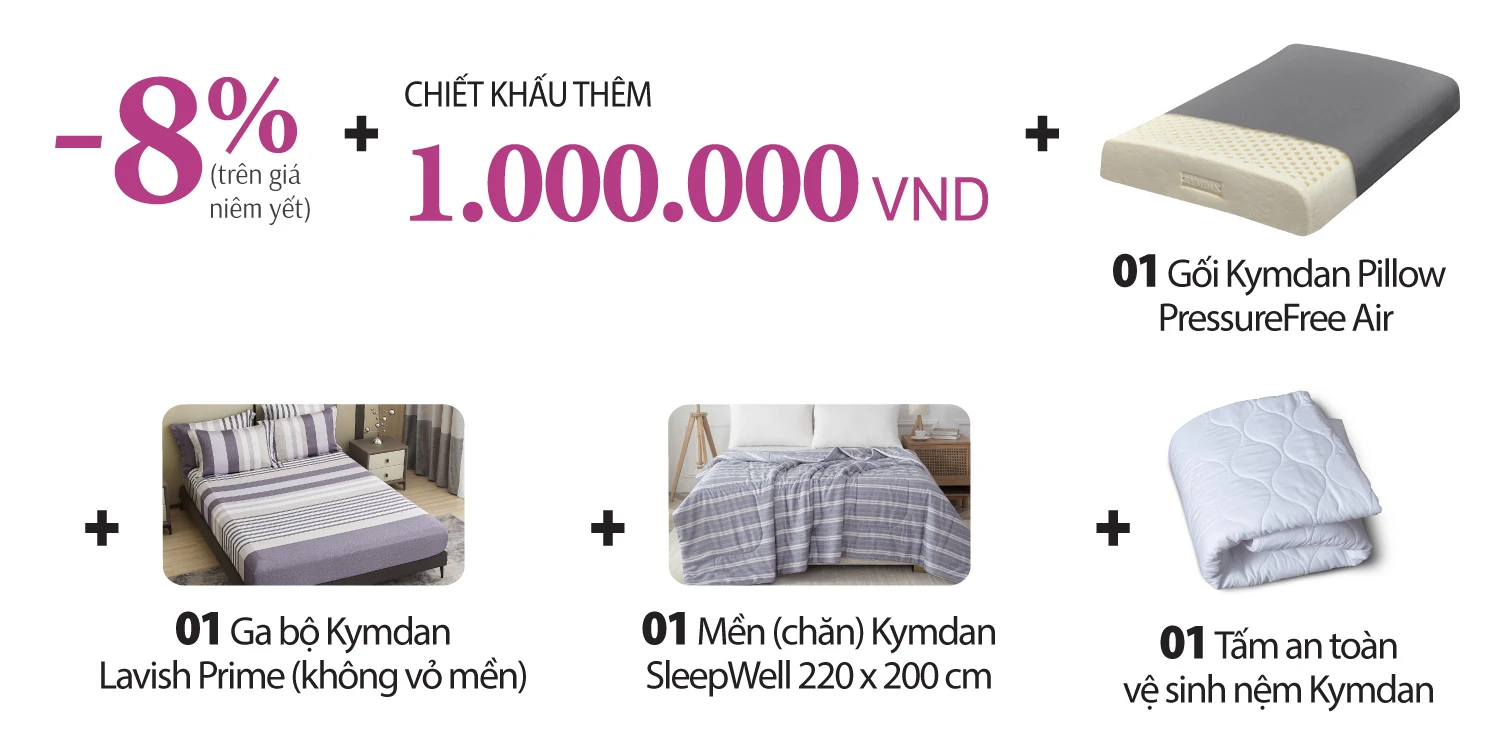
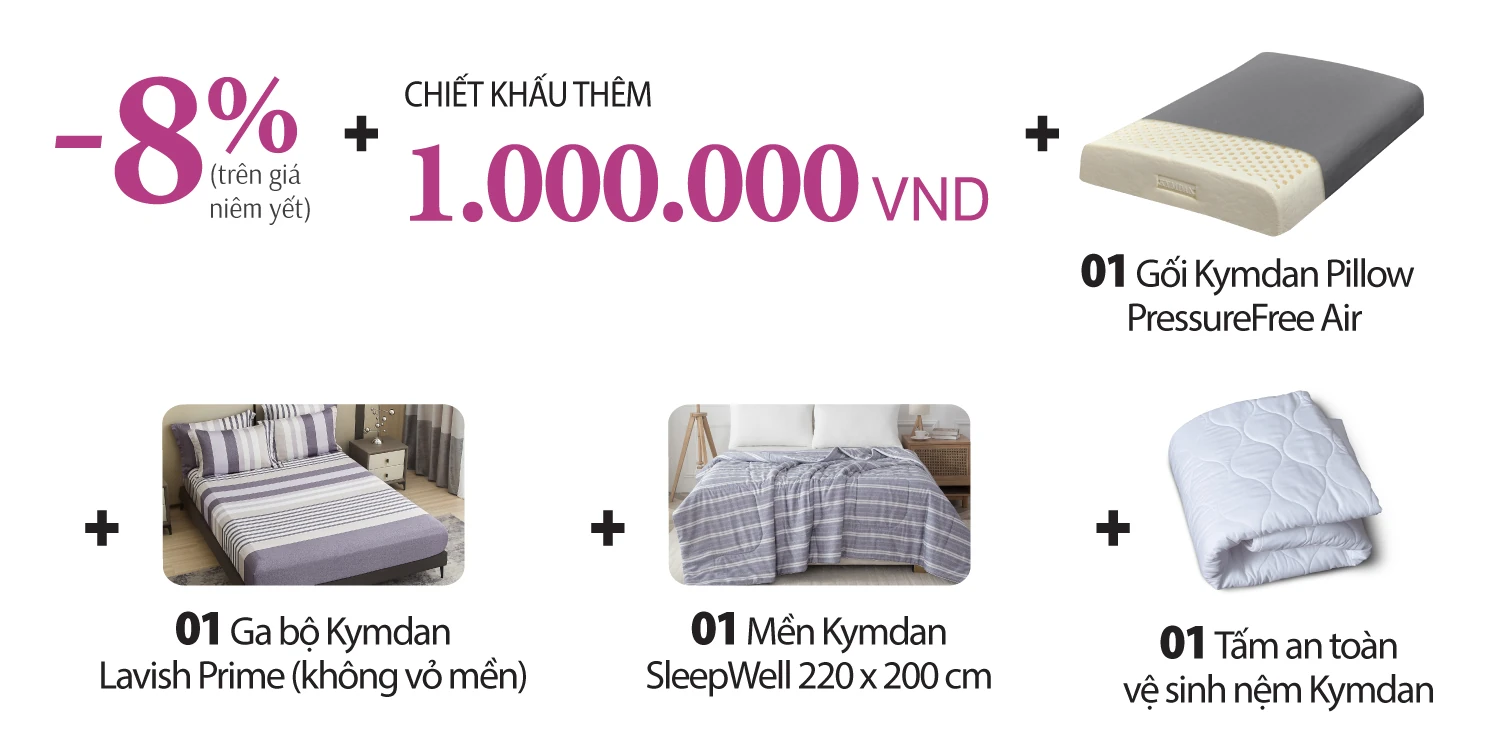
Sửa 3 ảnh ưu đãi Ngày Hội Trải Nghiệm theo bản khách gửi lại
- tier-badge-goi-pc: "MUA 01 GỐI" -> "MUA 1 GỐI", khớp cách viết của
  bản mobile vốn đã là "MUA 1 GỐI".
- tier-35-chuan-pc / -mb: bỏ chữ "(chăn)" ở dòng Mền SleepWell, đổi
  ảnh sản phẩm. Nội dung ưu đãi giữ nguyên.

Ba file 1500x752 và 899x1277 trùng kích thước với bậc 50 triệu nên
không ghép theo kích thước được — phải đọc nội dung: 1.000.000 VND +
Lavish Prime + SleepWell là bậc 35, không phải bậc 50.

Changed region(s): [[0.7053, 0.0612, 0.9813, 0.4588], [0.4293, 0.7952, 0.6747, 0.8564], [0.7973, 0.0918, 0.828, 0.1223]]

diff --git a/ngay-hoi-trai-nghiem/manifest.md b/ngay-hoi-trai-nghiem/manifest.md
@@ -2,27 +2,27 @@
 
 Tải từ Cloudinary **2026-09-10**. Nguồn markup: `index.html`
 
-31 file · 32 ô ảnh · **4 ảnh do Cloudinary dựng ra (không có file gốc ở đâu khác)**
+Cột cuối giữ **URL Cloudinary cũ** để tra ngược khi cần đối chiếu bài đang chạy.
 
 | Vai trò ô | File | Thông tin | URL Cloudinary cũ |
 |---|---|---|---|
 | banner-pc | `banner-pc.webp` | 1979×1100 · 52 KB | `https://res.cloudinary.com/dxhsejldo/image/upload/c_crop,x_0,y_0,w_709,h_519/c_scale,h_730/c_lpad,w_1979,h_1100,g_east,y_21,b_gen_fill:prompt_flat%20cream%20wall%20parallel%20to%20camera%20no%20alcove%20no%20recess%20no%20niche%20no%20corner%20no%20panels%20no%20vertical%20lines%20smooth%20pale%20grey%20floor/f_auto,q_auto/v1788763769/anhnem2_o59ebb.png` |
-| banner-pc-cut | `banner-pc-cut.webp` | 1979×1100 · 51 KB · **alpha** | `https://res.cloudinary.com/dxhsejldo/image/upload/c_crop,x_0,y_0,w_709,h_519/c_scale,h_730/c_lpad,w_1979,h_1100,g_east,y_21,b_gen_fill:prompt_flat%20cream%20wall%20parallel%20to%20camera%20no%20alcove%20no%20recess%20no%20niche%20no%20corner%20no%20panels%20no%20vertical%20lines%20smooth%20pale%20grey%20floor/e_background_removal/f_auto,q_auto/v1788763769/anhnem2_o59ebb.png` |
+| banner-pc-cut | `banner-pc-cut.webp` | 1979×1100 · 51 KB | `https://res.cloudinary.com/dxhsejldo/image/upload/c_crop,x_0,y_0,w_709,h_519/c_scale,h_730/c_lpad,w_1979,h_1100,g_east,y_21,b_gen_fill:prompt_flat%20cream%20wall%20parallel%20to%20camera%20no%20alcove%20no%20recess%20no%20niche%20no%20corner%20no%20panels%20no%20vertical%20lines%20smooth%20pale%20grey%20floor/e_background_removal/f_auto,q_auto/v1788763769/anhnem2_o59ebb.png` |
 | banner-tablet | `banner-tablet.webp` | 1738×1450 · 62 KB | `https://res.cloudinary.com/dxhsejldo/image/upload/c_crop,x_0,y_0,w_618,h_519/c_scale,h_730/c_lpad,w_1738,h_1450,g_east,b_gen_fill:prompt_flat%20cream%20wall%20parallel%20to%20camera%20no%20alcove%20no%20recess%20no%20niche%20no%20corner%20no%20panels%20no%20vertical%20lines%20smooth%20pale%20grey%20floor/f_auto,q_auto/v1788763769/anhnem2_o59ebb.png` |
 | banner-mobile | `banner-mobile.webp` | 824×1483 · 32 KB | `https://res.cloudinary.com/dxhsejldo/image/upload/c_crop,x_0,y_0,w_618,h_519/c_scale,w_824/c_pad,ar_5:9,g_south,b_auto/l_anhnem2_o59ebb/c_crop,x_0,y_0,w_618,h_519/c_scale,w_824/c_crop,g_north,w_824,h_3/c_scale,w_824,h_791/fl_layer_apply,g_north/f_auto,q_auto/v1788763769/anhnem2_o59ebb.png` |
-| nem-demo | `nem-demo.webp` | 900×445 · 29 KB · **alpha** | `https://res.cloudinary.com/dxhsejldo/image/upload/c_scale,w_900/f_auto,q_auto/v1788921083/nemdeluxe2_q0q7m0.png` |
-| qua-ga-bo-kymdan-seren | `qua-ga-bo-kymdan-seren.webp` | 312×312 · 15 KB · thu nhỏ 2026-09-10, bản gốc giữ ở `qua-ga-bo-kymdan-seren-full.jpg` (2000×2000 · 510 KB) | `https://res.cloudinary.com/dxhsejldo/image/upload/f_auto,q_auto/v1788764771/Untitled-1_uzapih.jpg` |
-| qua-men-chan-kymdan-sl | `qua-men-chan-kymdan-sl.webp` | 312×312 · 8 KB · thu nhỏ 2026-09-10, bản gốc giữ ở `qua-men-chan-kymdan-sl-full.jpg` (2000×2000 · 229 KB) | `https://res.cloudinary.com/dxhsejldo/image/upload/f_auto,q_auto/v1788764770/Untitled-2_youizt.jpg` |
-| tier-50-chuan-pc | `tier-50-chuan-pc.webp` | 1500×752 · 71 KB | **ảnh mới khách gửi 2026-09-10** — `Icon SK Hue_icon sk pc-23.jpg` |
-| tier-50-chuan-mb | `tier-50-chuan-mb.webp` | 899×1277 · 76 KB | **ảnh mới khách gửi 2026-09-10** — `Icon SK Hue_icon sk mobile-20.jpg` |
+| nem-demo | `nem-demo.webp` | 900×445 · 29 KB | `https://res.cloudinary.com/dxhsejldo/image/upload/c_scale,w_900/f_auto,q_auto/v1788921083/nemdeluxe2_q0q7m0.png` |
+| qua-ga-bo-kymdan-seren | `qua-ga-bo-kymdan-seren.webp` | 312×312 · 15 KB · thu nhỏ 2026-09-10 từ 2000×2000 · bản gốc ở `qua-ga-bo-kymdan-seren-full.jpg` | `https://res.cloudinary.com/dxhsejldo/image/upload/f_auto,q_auto/v1788764771/Untitled-1_uzapih.jpg` |
+| qua-men-chan-kymdan-sl | `qua-men-chan-kymdan-sl.webp` | 312×312 · 8 KB · thu nhỏ 2026-09-10 từ 2000×2000 · bản gốc ở `qua-men-chan-kymdan-sl-full.jpg` | `https://res.cloudinary.com/dxhsejldo/image/upload/f_auto,q_auto/v1788764770/Untitled-2_youizt.jpg` |
+| tier-50-chuan-pc | `tier-50-chuan-pc.webp` | 1500×752 · 71 KB · **ảnh mới khách gửi 2026-09-10** (`Icon SK Hue_icon sk pc-23.jpg`) | `https://res.cloudinary.com/dxhsejldo/image/upload/f_auto,q_auto/v1788762084/Icon_SK_Hue_icon_sk-23_eqqur6.jpg` |
+| tier-50-chuan-mb | `tier-50-chuan-mb.webp` | 899×1277 · 76 KB · **ảnh mới khách gửi 2026-09-10** (`Icon SK Hue_icon sk mobile-20.jpg`) | `https://res.cloudinary.com/dxhsejldo/image/upload/f_auto,q_auto/v1788752472/Icon_SK_Hue_icon_sk-20_w7sdbx.jpg` |
 | tier-50-yeucau-pc | `tier-50-yeucau-pc.webp` | 1500×579 · 45 KB | `https://res.cloudinary.com/dxhsejldo/image/upload/f_auto,q_auto/v1788762085/Icon_SK_Hue_icon_sk-09_unqvtx.jpg` |
 | tier-50-yeucau-mb | `tier-50-yeucau-mb.webp` | 899×790 · 44 KB | `https://res.cloudinary.com/dxhsejldo/image/upload/f_auto,q_auto/v1788752471/Icon_SK_Hue_icon_sk-12_jegphq.jpg` |
-| tier-35-chuan-pc | `tier-35-chuan-pc.webp` | 1500×752 · 90 KB | `https://res.cloudinary.com/dxhsejldo/image/upload/f_auto,q_auto/v1788762084/Icon_SK_Hue_icon_sk-01_grx2nf.jpg` |
-| tier-35-chuan-mb | `tier-35-chuan-mb.webp` | 899×1277 · 95 KB | `https://res.cloudinary.com/dxhsejldo/image/upload/f_auto,q_auto/v1788752470/Icon_SK_Hue_icon_sk-10_rvpf7f.jpg` |
+| tier-35-chuan-pc | `tier-35-chuan-pc.webp` | 1500×752 · 84 KB · **ảnh mới khách gửi 2026-09-11** (`Icon SK Hue_icon sk pc-01.jpg`) | `https://res.cloudinary.com/dxhsejldo/image/upload/f_auto,q_auto/v1788762084/Icon_SK_Hue_icon_sk-01_grx2nf.jpg` |
+| tier-35-chuan-mb | `tier-35-chuan-mb.webp` | 899×1277 · 89 KB · **ảnh mới khách gửi 2026-09-11** (`Icon SK Hue_icon sk mobile-10.jpg`) | `https://res.cloudinary.com/dxhsejldo/image/upload/f_auto,q_auto/v1788752470/Icon_SK_Hue_icon_sk-10_rvpf7f.jpg` |
 | tier-35-yeucau-pc | `tier-35-yeucau-pc.webp` | 1500×579 · 46 KB | `https://res.cloudinary.com/dxhsejldo/image/upload/f_auto,q_auto/v1788762085/Icon_SK_Hue_icon_sk-08_fpfwkg.jpg` |
 | tier-35-yeucau-mb | `tier-35-yeucau-mb.webp` | 899×790 · 41 KB | `https://res.cloudinary.com/dxhsejldo/image/upload/f_auto,q_auto/v1788752471/Icon_SK_Hue_icon_sk-11_zdsjlg.jpg` |
-| tier-25-chuan-pc | `tier-25-chuan-pc.webp` | 1500×579 · 54 KB | **ảnh mới khách gửi 2026-09-10** — `Icon SK Hue_icon sk pc-22.jpg` |
-| tier-25-chuan-mb | `tier-25-chuan-mb.webp` | 899×870 · 57 KB | **ảnh mới khách gửi 2026-09-10** — `Icon SK Hue_icon sk mobile-19.jpg` |
+| tier-25-chuan-pc | `tier-25-chuan-pc.webp` | 1500×579 · 54 KB · **ảnh mới khách gửi 2026-09-10** (`Icon SK Hue_icon sk pc-22.jpg`) | `https://res.cloudinary.com/dxhsejldo/image/upload/f_auto,q_auto/v1788762084/Icon_SK_Hue_icon_sk-22_zxnllh.jpg` |
+| tier-25-chuan-mb | `tier-25-chuan-mb.webp` | 899×870 · 57 KB · **ảnh mới khách gửi 2026-09-10** (`Icon SK Hue_icon sk mobile-19.jpg`) | `https://res.cloudinary.com/dxhsejldo/image/upload/f_auto,q_auto/v1788752473/Icon_SK_Hue_icon_sk-19_udctrp.jpg` |
 | tier-25-yeucau-pc | `tier-25-yeucau-pc.webp` | 1500×579 · 41 KB | `https://res.cloudinary.com/dxhsejldo/image/upload/f_auto,q_auto/v1788762085/Icon_SK_Hue_icon_sk-07_ejclqp.jpg` |
 | tier-25-yeucau-mb | `tier-25-yeucau-mb.webp` | 899×790 · 41 KB | `https://res.cloudinary.com/dxhsejldo/image/upload/f_auto,q_auto/v1788752472/Icon_SK_Hue_icon_sk-26_qclnzy.jpg` |
 | tier-15-chuan-pc | `tier-15-chuan-pc.webp` | 1500×579 · 40 KB | `https://res.cloudinary.com/dxhsejldo/image/upload/f_auto,q_auto/v1788762084/Icon_SK_Hue_icon_sk-21_qdssgu.jpg` |
@@ -31,10 +31,10 @@ Tải từ Cloudinary **2026-09-10**. Nguồn markup: `index.html`
 | tier-duoi15-chuan-mb | `tier-duoi15-chuan-mb.webp` | 899×199 · 5 KB | `https://res.cloudinary.com/dxhsejldo/image/upload/f_auto,q_auto/v1788752472/Icon_SK_Hue_icon_sk-16_seecle.jpg` |
 | tier-them15-chuan-pc | `tier-them15-chuan-pc.webp` | 1500×319 · 47 KB | `https://res.cloudinary.com/dxhsejldo/image/upload/f_auto,q_auto/v1788762084/Icon_SK_Hue_icon_sk-29_cov7f5.jpg` |
 | tier-them15-chuan-mb | `tier-them15-chuan-mb.webp` | 899×508 · 40 KB | `https://res.cloudinary.com/dxhsejldo/image/upload/f_auto,q_auto/v1788752473/Icon_SK_Hue_icon_sk-28_nvnokb.jpg` |
-| tier-badge-goi-pc | `tier-badge-goi-pc.webp` | 1500×220 · 15 KB | **ảnh mới khách gửi 2026-09-10** — `Icon SK Hue_icon sk pc-04.jpg` |
-| tier-badge-goi-mb | `tier-badge-goi-mb.webp` | 899×199 · 12 KB | **ảnh mới khách gửi 2026-09-10** — `Icon SK Hue_icon sk mobile-14.jpg` |
-| tier-badge-ga-pc | `tier-badge-ga-pc.webp` | 1500×150 · 7 KB | **ảnh mới khách gửi 2026-09-10** — `Icon SK Hue_icon sk pc-06.jpg` |
-| tier-badge-ga-mb | `tier-badge-ga-mb.webp` | 899×98 · 5 KB | **ảnh mới khách gửi 2026-09-10** — `Icon SK Hue_icon sk mobile-13.jpg` |
-| tier-badge-men-pc | `tier-badge-ga-pc.webp` | dùng lại file trên | **ảnh mới khách gửi 2026-09-10** — `Icon SK Hue_icon sk pc-06.jpg` |
-| tier-badge-men-mb | `tier-badge-men-mb.webp` | 899×98 · 5 KB | **ảnh mới khách gửi 2026-09-10** — `Icon SK Hue_icon sk mobile-13.jpg` |
+| tier-badge-goi-pc | `tier-badge-goi-pc.webp` | 1500×220 · 15 KB · **ảnh mới khách gửi 2026-09-11** (`Icon SK Hue.jpg`) | `https://res.cloudinary.com/dxhsejldo/image/upload/f_auto,q_auto/v1788762084/Icon_SK_Hue_icon_sk-04_o9i5jo.jpg` |
+| tier-badge-goi-mb | `tier-badge-goi-mb.webp` | 899×199 · 12 KB · **ảnh mới khách gửi 2026-09-10** (`Icon SK Hue_icon sk mobile-14.jpg`) | `https://res.cloudinary.com/dxhsejldo/image/upload/f_auto,q_auto/v1788752472/Icon_SK_Hue_icon_sk-14_rym8o3.jpg` |
+| tier-badge-ga-pc | `tier-badge-ga-pc.webp` | 1500×150 · 7 KB · **ảnh mới khách gửi 2026-09-10** (`Icon SK Hue_icon sk pc-06.jpg`) | `https://res.cloudinary.com/dxhsejldo/image/upload/f_auto,q_auto/v1788762085/Icon_SK_Hue_icon_sk-06_w0rdq4.jpg` |
+| tier-badge-ga-mb | `tier-badge-ga-mb.webp` | 899×98 · 5 KB · **ảnh mới khách gửi 2026-09-10** (`Icon SK Hue_icon sk mobile-13.jpg`) | `https://res.cloudinary.com/dxhsejldo/image/upload/f_auto,q_auto/v1788752471/Icon_SK_Hue_icon_sk-13_rhdqyg.jpg` |
+| tier-badge-men-pc | `tier-badge-ga-pc.webp` | dùng lại file trên · **ảnh mới khách gửi 2026-09-10** | `https://res.cloudinary.com/dxhsejldo/image/upload/f_auto,q_auto/v1788762085/Icon_SK_Hue_icon_sk-06_w0rdq4.jpg` |
+| tier-badge-men-mb | `tier-badge-men-mb.webp` | 899×98 · 5 KB · **ảnh mới khách gửi 2026-09-10** (`Icon SK Hue_icon sk mobile-13.jpg`) | `https://res.cloudinary.com/dxhsejldo/image/upload/f_auto,q_auto/v1788752473/Icon_SK_Hue_icon_sk-27_ytynf4.jpg` |
 | voucher-mat-truoc | `voucher-mat-truoc.webp` | 1177×2359 · 227 KB | `https://res.cloudinary.com/dxhsejldo/image/upload/f_auto,q_auto/v1788752430/voucher_Aeon_Hue_ok-01_qnisg2.jpg` |
